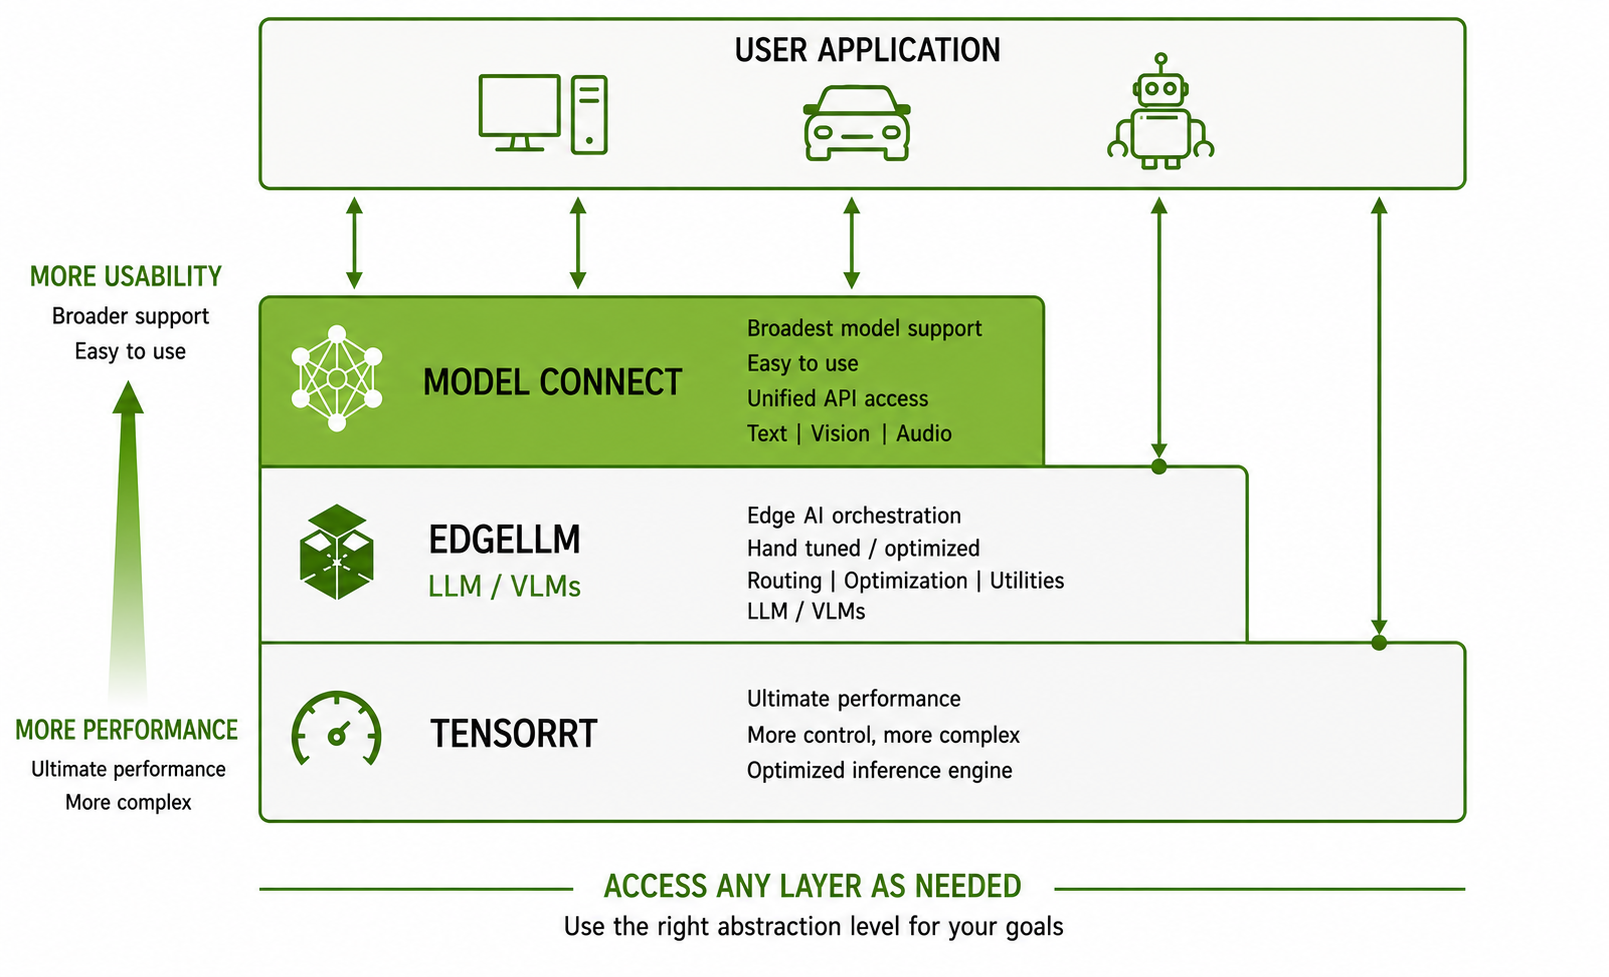
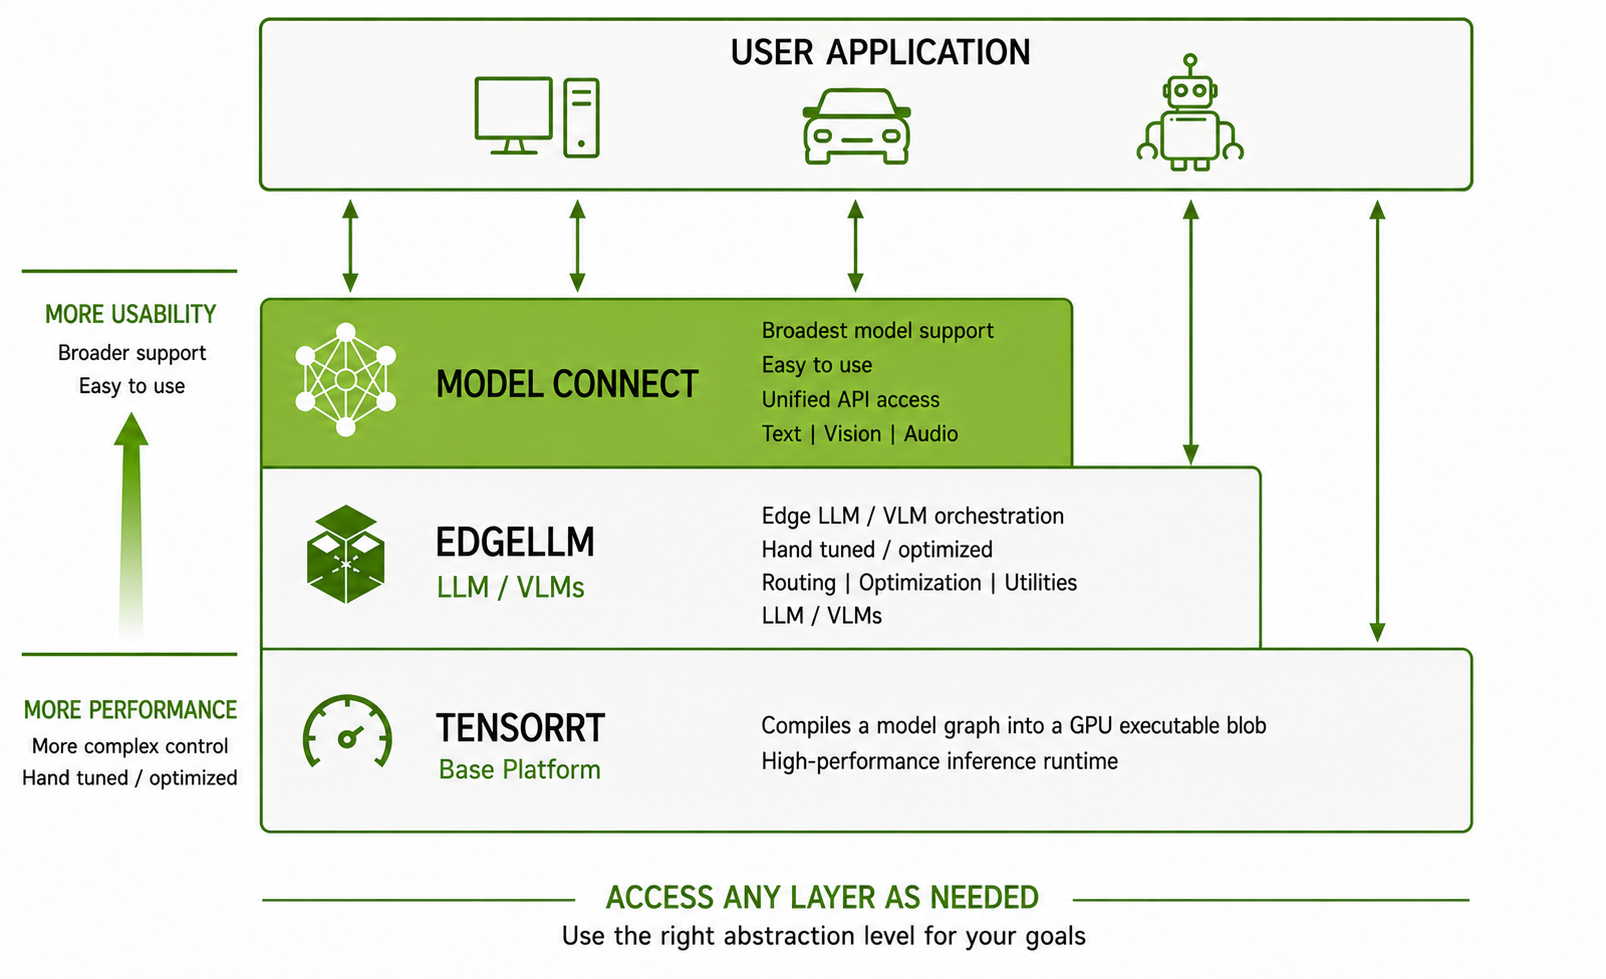
docs(readme): replace TensorRT stack diagram
Use the revised maintainer-supplied abstraction diagram and keep its rendered dimensions and provenance checksum accurate.

Changed region(s): [[0.0, 0.0307, 0.934, 0.8598], [0.1557, 0.8905, 0.9029, 0.9826], [0.467, 0.7062, 0.7783, 0.7984]]

diff --git a/README.md b/README.md
@@ -42,7 +42,7 @@ std::cout << pipeline->generate("What is the capital of France? Answer in one wo
   is the priority, start directly with
   [TensorRT Edge-LLM](https://github.com/NVIDIA/TensorRT-Edge-LLM).
 
-<img width="1609" height="977" alt="TensorRT abstraction layers from Model Connect through Edge-LLM to TensorRT" src="TRT-Stack.png" />
+<img width="1606" height="979" alt="TensorRT abstraction layers from Model Connect through Edge-LLM to TensorRT" src="TRT-Stack.png" />
 
 <a id="why-tensorrt-model-connect"></a>
 

diff --git a/ASSET_LICENSES.md b/ASSET_LICENSES.md
@@ -46,7 +46,7 @@ for inclusion and redistribution under the Apache License 2.0:
 - `What-is-MC.png`; SHA-256
[1 lines of base64/hex data omitted]
 - `TRT-Stack.png`; SHA-256
[2 lines of base64/hex data omitted]
 
 ## Maintainer voice recording and derived ASR probes
 
